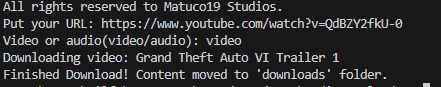
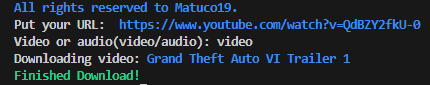
updated project
-added colors in text
-optimized the code
-changed the screenshot

diff --git a/main.py b/main.py
@@ -1,6 +1,9 @@
 from pytube import YouTube
-#code by Matuco19 Studios
-print("All rights reserved to Matuco19 Studios.")
+from colorama import Fore, Style
+s = Style.BRIGHT
+
+#code by Matuco19
+print(f"{s+Fore.BLUE} All rights reserved to Matuco19.")
 
 def download_media(url, output_path='downloads', media_type='audio'):
     try:
@@ -14,18 +17,18 @@ def download_media(url, output_path='downloads', media_type='audio'):
          
             media_stream = yt.streams.filter(only_video=True).first()
         else:
-            print("not supported format, using audio type.")
+            print(f"{s+Fore.RED} not supported format, using audio type.")
             media_stream = yt.streams.filter(only_audio=True).first()
             return
 
         
-        print(f"Downloading {media_type}: {yt.title}")
+        print(f"{s+Fore.RESET} Downloading {media_type}:{s+Fore.BLUE} {yt.title}")
         media_stream.download(output_path)
-        print("Finished Download! Content moved to 'downloads' folder.")
+        print(f"{s+Fore.GREEN} Finished Download! {s+Fore.RESET}")
 
     except Exception as e:
-        print(f"Shit! There is an error: {e}")
+        print(f"Shit! There is an error: {s+Fore.RED} {e} {s+Fore.RESET}")
 
 
-url = input("Put your URL: ")
-download_media(url, media_type=input("Video or audio(video/audio): "))
+url = input(f"{s+Fore.RESET} Put your URL: {s+Fore.BLUE} ")
+download_media(url, media_type=input(f"{s+Fore.RESET} Video or audio(video/audio): "))

diff --git a/README.md b/README.md
@@ -12,6 +12,7 @@ I used the following modules:
 
 ```
 - pytube
+- colorama
 ```
 
 <h3> Roadmap </h3>
